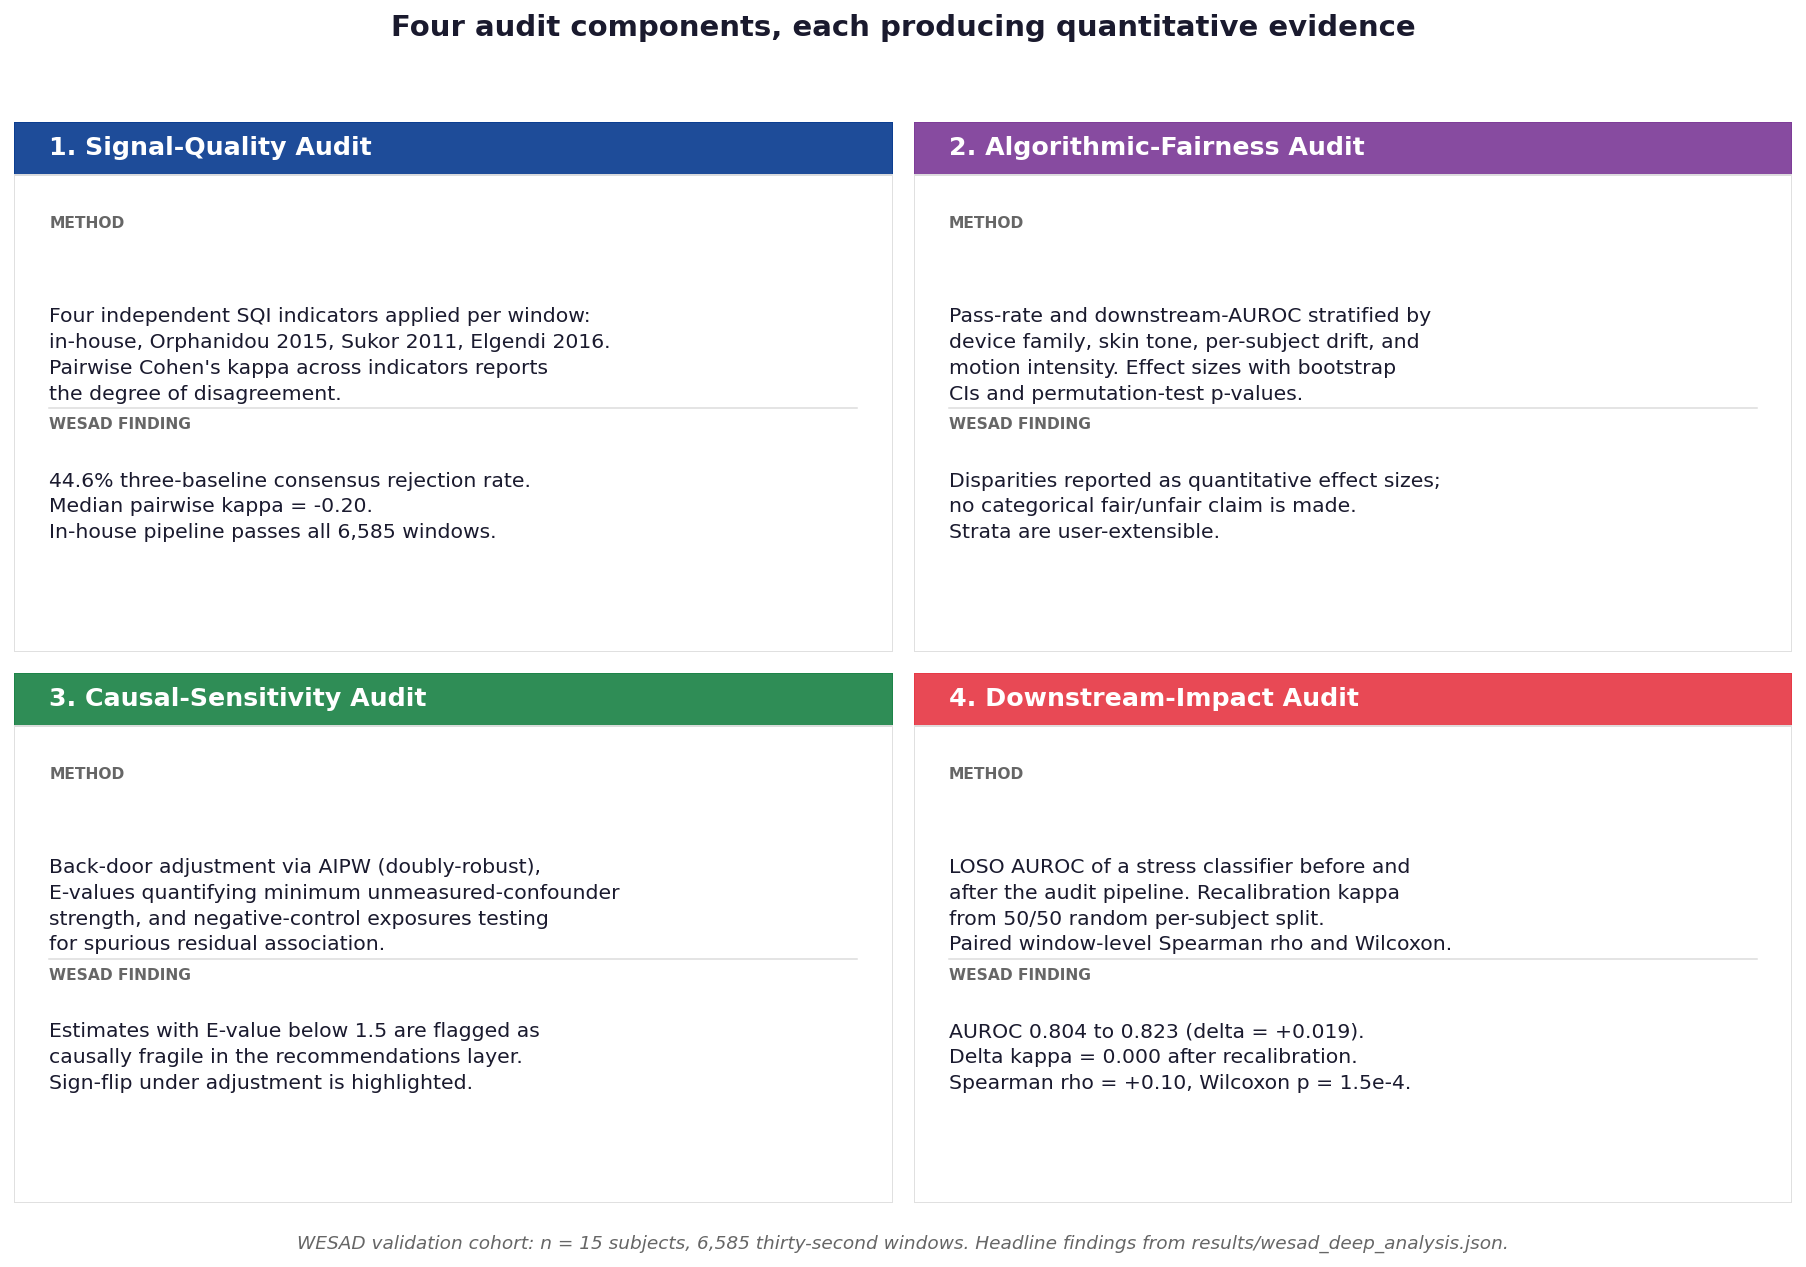
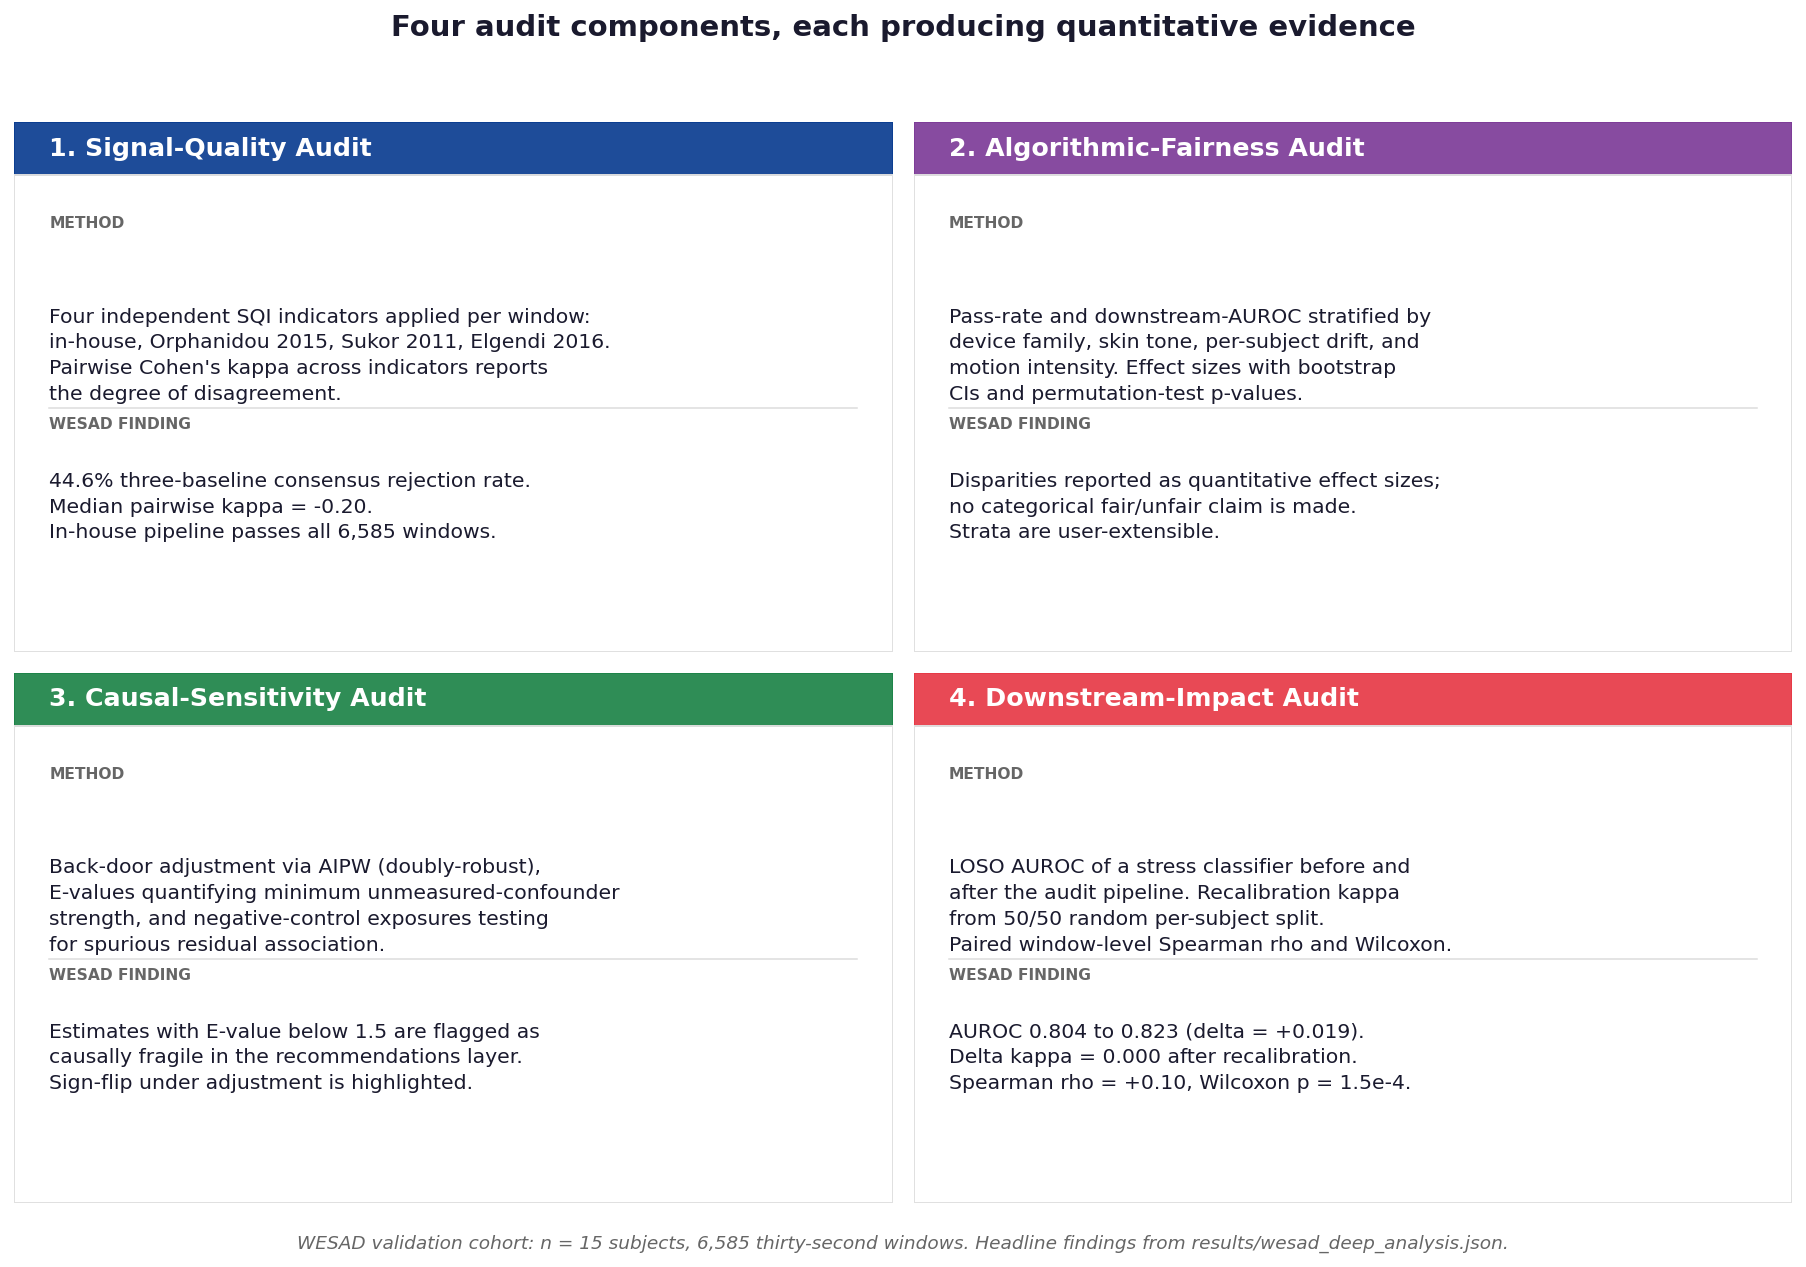
v0.17.2 docs polish: hand-crafted index, methods, comparison + fig6 audit components
Replaces the auto-generated docs landing page with a hand-crafted index.md
mirroring the README quality bar: hero text, badge row, mermaid architecture
diagram, headline-results table, and action buttons to the methods, results,
and comparison pages.

Adds docs/methods.md, a narrative walk-through of all four audit components
with method tables for each, and a 'what this toolkit does not do' section
that bounds the scope honestly.

Adds docs/comparison.md, a feature-coverage comparison vs neurokit2, heartpy,
hrv-analysis, and BiosPPy with composability guidance and citation pointers.

Adds paper/figures/fig6_audit_components.png, a four-panel summary diagram
showing each audit component's method and WESAD finding side by side,
generated locally from generate_audit_components_figure.py.

Updates mkdocs.yml nav to place Methods, Results, and Comparison in the
upper navigation alongside the existing pages. Cross-references in the new
pages use the repository's hyphenated filename convention (getting-started,
reproducing-paper, reporting-standards, api-reference).

diff --git a/docs/index.md b/docs/index.md
@@ -79,10 +79,10 @@ report = {sqi.__name__: sqi(windows) for sqi in (orphanidou_sqi, sukor_sqi, elge
 
 ## Where to next
 
-- [Getting started](getting_started.md): installation, environment, first run
-- [Reproducing the paper](reproducing_paper.md): end-to-end commands to regenerate every figure and table in the manuscript
-- [Reporting standards](reporting_standards.md): TRIPOD+AI, STARD, CONSORT-AI, DECIDE-AI compliance
-- [API reference](api/index.md): auto-generated from docstrings via mkdocstrings
+- [Getting started](getting-started.md): installation, environment, first run
+- [Reproducing the paper](reproducing-paper.md): end-to-end commands to regenerate every figure and table in the manuscript
+- [Reporting standards](reporting-standards.md): TRIPOD+AI, STARD, CONSORT-AI, DECIDE-AI compliance
+- [API reference](api-reference.md): auto-generated from docstrings via mkdocstrings
 - [Citing](citing.md): BibTeX, CITATION.cff, Zenodo DOI
 
 ## Author and contact

diff --git a/docs/methods.md b/docs/methods.md
@@ -2,7 +2,7 @@
 
 A narrative walk-through of the four audit components. For the manuscript-grade
 methods text see `paper/paper.md` and the reporting-standards checklists in
-`paper/checklists/`; for inline API reference see the [API reference](api/index.md).
+`paper/checklists/`; for inline API reference see the [API reference](api-reference.md).
 
 The audit is organised around four cooperating components, each producing
 quantitative evidence that feeds a single set of methodology recommendations.
@@ -109,7 +109,7 @@ clinical truth.
 ## Reporting standards
 
 For the formal reporting-standards mapping see the [Reporting standards
-page](reporting_standards.md) and the EQUATOR-Network checklists in
+page](reporting-standards.md) and the EQUATOR-Network checklists in
 `paper/checklists/`. In short:
 
 - **TRIPOD+AI** (Collins et al. 2024) applies and is mapped item by item
